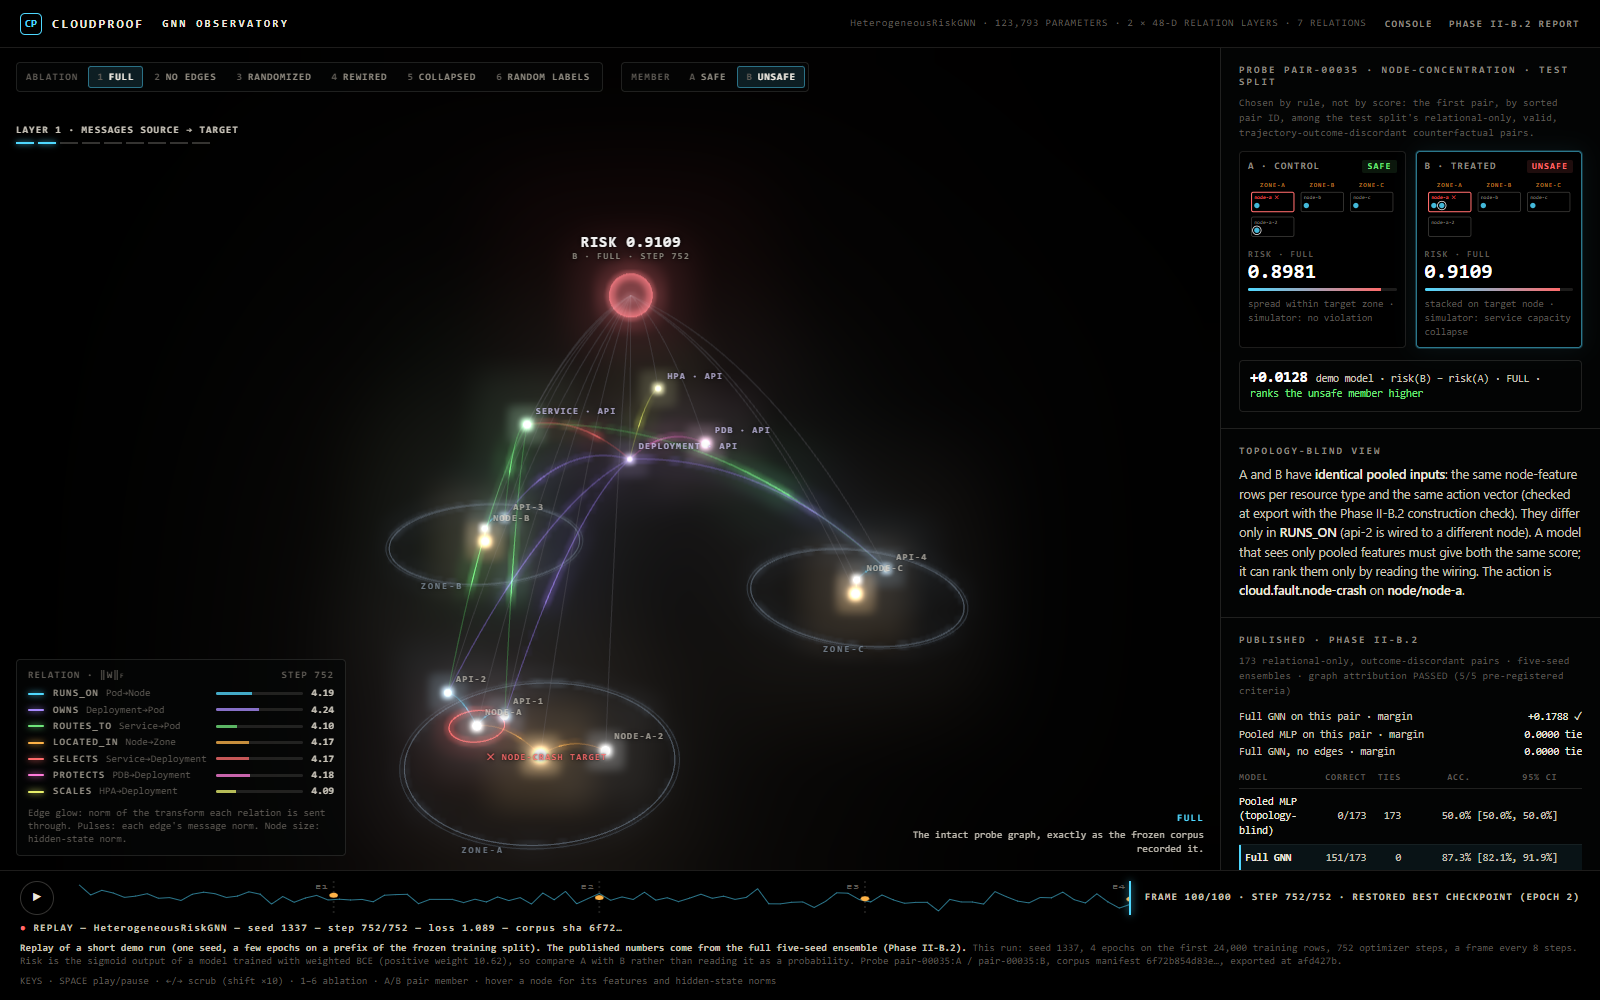
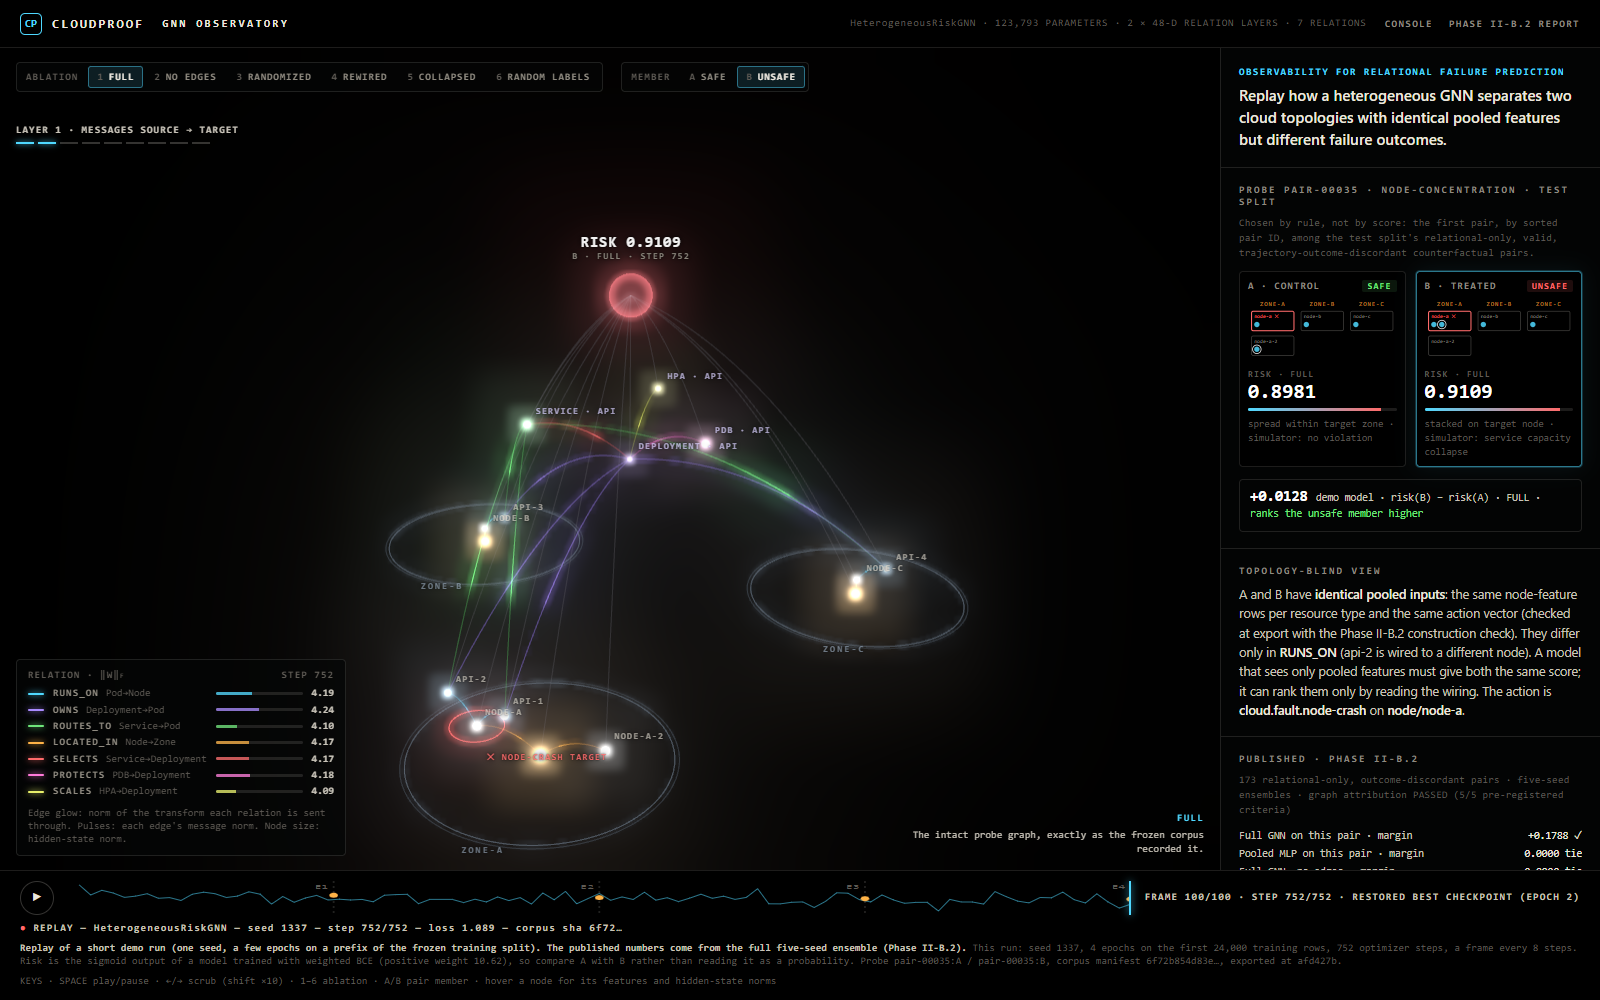
docs(observatory): lead with what the page is for
Frame the Observatory as an observability tool for relational failure
prediction rather than a 3D visualization: the panel, page description and
README now open with "Replay how a heterogeneous GNN separates two cloud
topologies with identical pooled features but different failure outcomes."
The README also states the one-way rule: research artifacts -> export ->
Observatory, never numbers copied back out of the page. Stills regenerated.

Changed region(s): [[0.75, 0.062, 1.0, 0.868]]

diff --git a/apps/observatory/observatory.html b/apps/observatory/observatory.html
@@ -5,7 +5,7 @@
   <meta name="viewport" content="width=device-width,initial-scale=1">
   <meta name="theme-color" content="#000000">
   <title>CloudProof · GNN Observatory</title>
-  <meta name="description" content="A replay of the real CloudProof HeterogeneousRiskGNN training and reasoning over a frozen Kubernetes counterfactual pair: hidden states, per-edge messages, relation weights and risk under every edge-destruction ablation.">
+  <meta name="description" content="An observability tool for relational failure prediction: replay how a heterogeneous GNN separates two cloud topologies with identical pooled features but different failure outcomes. Hidden states, per-edge messages, relation weights and risk come from the real CloudProof model and frozen corpus.">
   <link rel="stylesheet" href="observatory.css">
   <!-- three.js is pinned to one release and loaded from the CDN; the site has no npm dependencies. -->
   <script type="importmap">
@@ -50,6 +50,10 @@
     </section>
 
     <aside class="obs-panel" id="obs-panel" tabindex="-1" aria-label="Probe pair, risks and published results">
+      <section class="obs-block obs-lede" aria-label="What this page is">
+        <p class="obs-kicker">OBSERVABILITY FOR RELATIONAL FAILURE PREDICTION</p>
+        <p class="obs-lede-text">Replay how a heterogeneous GNN separates two cloud topologies with identical pooled features but different failure outcomes.</p>
+      </section>
       <section class="obs-block" id="obs-probe" aria-labelledby="obs-probe-title">
         <h2 id="obs-probe-title">PROBE PAIR</h2>
         <p class="obs-sub" id="obs-probe-rule"></p>

diff --git a/web/observatory.html b/web/observatory.html
@@ -5,7 +5,7 @@
   <meta name="viewport" content="width=device-width,initial-scale=1">
   <meta name="theme-color" content="#000000">
   <title>CloudProof · GNN Observatory</title>
-  <meta name="description" content="A replay of the real CloudProof HeterogeneousRiskGNN training and reasoning over a frozen Kubernetes counterfactual pair: hidden states, per-edge messages, relation weights and risk under every edge-destruction ablation.">
+  <meta name="description" content="An observability tool for relational failure prediction: replay how a heterogeneous GNN separates two cloud topologies with identical pooled features but different failure outcomes. Hidden states, per-edge messages, relation weights and risk come from the real CloudProof model and frozen corpus.">
   <link rel="stylesheet" href="observatory.css">
   <!-- three.js is pinned to one release and loaded from the CDN; the site has no npm dependencies. -->
   <script type="importmap">
@@ -50,6 +50,10 @@
     </section>
 
     <aside class="obs-panel" id="obs-panel" tabindex="-1" aria-label="Probe pair, risks and published results">
+      <section class="obs-block obs-lede" aria-label="What this page is">
+        <p class="obs-kicker">OBSERVABILITY FOR RELATIONAL FAILURE PREDICTION</p>
+        <p class="obs-lede-text">Replay how a heterogeneous GNN separates two cloud topologies with identical pooled features but different failure outcomes.</p>
+      </section>
       <section class="obs-block" id="obs-probe" aria-labelledby="obs-probe-title">
         <h2 id="obs-probe-title">PROBE PAIR</h2>
         <p class="obs-sub" id="obs-probe-rule"></p>

diff --git a/apps/observatory/observatory.css b/apps/observatory/observatory.css
@@ -82,6 +82,9 @@ a{color:inherit}
 .obs-panel{border-left:1px solid var(--ob-line);background:#030404;overflow-y:auto;min-height:0;scrollbar-width:thin;scrollbar-color:var(--ob-line-2) transparent}
 .obs-block{padding:16px 18px;border-bottom:1px solid var(--ob-line)}
 .obs-block h2{margin:0 0 8px;font:700 10px/1.2 var(--ob-mono);letter-spacing:.2em;color:var(--ob-muted)}
+.obs-lede{padding-top:18px;padding-bottom:16px}
+.obs-kicker{margin:0 0 7px;font:700 9.5px/1.3 var(--ob-mono);letter-spacing:.18em;color:var(--ob-cyan)}
+.obs-lede-text{margin:0;font:500 15px/1.45 var(--ob-sans);color:var(--ob-ink)}
 .obs-sub{margin:0 0 10px;font:500 10px/1.5 var(--ob-mono);letter-spacing:.03em;color:var(--ob-faint)}
 .obs-copy{margin:0;font-size:12.5px;line-height:1.55;color:var(--ob-ink-2)}
 .obs-copy b{color:var(--ob-ink);font-weight:600}

diff --git a/web/observatory.css b/web/observatory.css
@@ -82,6 +82,9 @@ a{color:inherit}
 .obs-panel{border-left:1px solid var(--ob-line);background:#030404;overflow-y:auto;min-height:0;scrollbar-width:thin;scrollbar-color:var(--ob-line-2) transparent}
 .obs-block{padding:16px 18px;border-bottom:1px solid var(--ob-line)}
 .obs-block h2{margin:0 0 8px;font:700 10px/1.2 var(--ob-mono);letter-spacing:.2em;color:var(--ob-muted)}
+.obs-lede{padding-top:18px;padding-bottom:16px}
+.obs-kicker{margin:0 0 7px;font:700 9.5px/1.3 var(--ob-mono);letter-spacing:.18em;color:var(--ob-cyan)}
+.obs-lede-text{margin:0;font:500 15px/1.45 var(--ob-sans);color:var(--ob-ink)}
 .obs-sub{margin:0 0 10px;font:500 10px/1.5 var(--ob-mono);letter-spacing:.03em;color:var(--ob-faint)}
 .obs-copy{margin:0;font-size:12.5px;line-height:1.55;color:var(--ob-ink-2)}
 .obs-copy b{color:var(--ob-ink);font-weight:600}

diff --git a/README.md b/README.md
@@ -395,11 +395,14 @@ Full reports: [Phase I](CLOUDPROOF.md) · [II-A](CLOUDPROOF-PHASE-II-A.md) · [I
 
 ### GNN Observatory
 
+**An observability tool for relational failure prediction.** `web/observatory.html` replays how a heterogeneous GNN separates two cloud topologies with identical pooled features but different failure outcomes.
+
 ![GNN Observatory: the probe pair's Kubernetes graph with relation-coloured message passing, the risk orb, the pair panel and the published Phase II-B.2 table](docs/observatory/observatory-full.png)
 
-`web/observatory.html` replays a real `HeterogeneousRiskGNN` training run on one frozen counterfactual pair, in 3D. Nothing on it is decorative. Node size and glow come from each node's hidden-state norm, pulses from each edge's message norm in each layer and direction, and edge glow from the Frobenius norm of each relation's weights. The risk orb shows the sigmoid risk of the shown pair member under the chosen ablation (full, no edges, randomized, rewired, collapsed, random labels). All of it is read from `web/observatory/replay.json`.
+The replay is a real `HeterogeneousRiskGNN` training run on one frozen counterfactual pair, shown in 3D. Nothing on it is decorative. Node size and glow come from each node's hidden-state norm, pulses from each edge's message norm in each layer and direction, and edge glow from the Frobenius norm of each relation's weights. The risk orb shows the sigmoid risk of the shown pair member under the chosen ablation (full, no edges, randomized, rewired, collapsed, random labels). All of it is read from `web/observatory/replay.json`.
 
 - **It visualizes a short demo run, not the published result.** That run used one seed and four epochs on the first 24,000 rows of the frozen training split, about a minute on one CPU thread. The page's published table, and the supported-claim sentence it quotes, are copied at export time from the Phase II-B.2 result JSON and from this README, and tests fail if they drift.
+- **Data flows one way only:** research artifacts → export → Observatory. The page is never a source of truth, and no number is ever copied from it into a report.
 - **The probe is chosen by rule, not by score:** the first relational-only, valid, outcome-discordant pair in the test split. That is `pair-00035` (node-concentration). Its members have identical pooled inputs; in member B, `pod/api-2` runs on the node that crashes. A topology-blind model must score the two the same.
 - **The tap is opt-in and side-effect free.** `train_member(viz_tap=...)` (`train.py --viz-tap PATH`) records under `no_grad` in eval mode, with hooks that exist only during a recording. A test proves that training with the tap gives bit-identical weights to training without it.
 - **Controls.** Space plays or pauses, ←/→ scrub, 1–6 switch the ablation, A/B switch the pair member, and hovering a node shows its features and hidden-state norms. The page shows a still image if WebGL is unavailable and honours `prefers-reduced-motion`.
